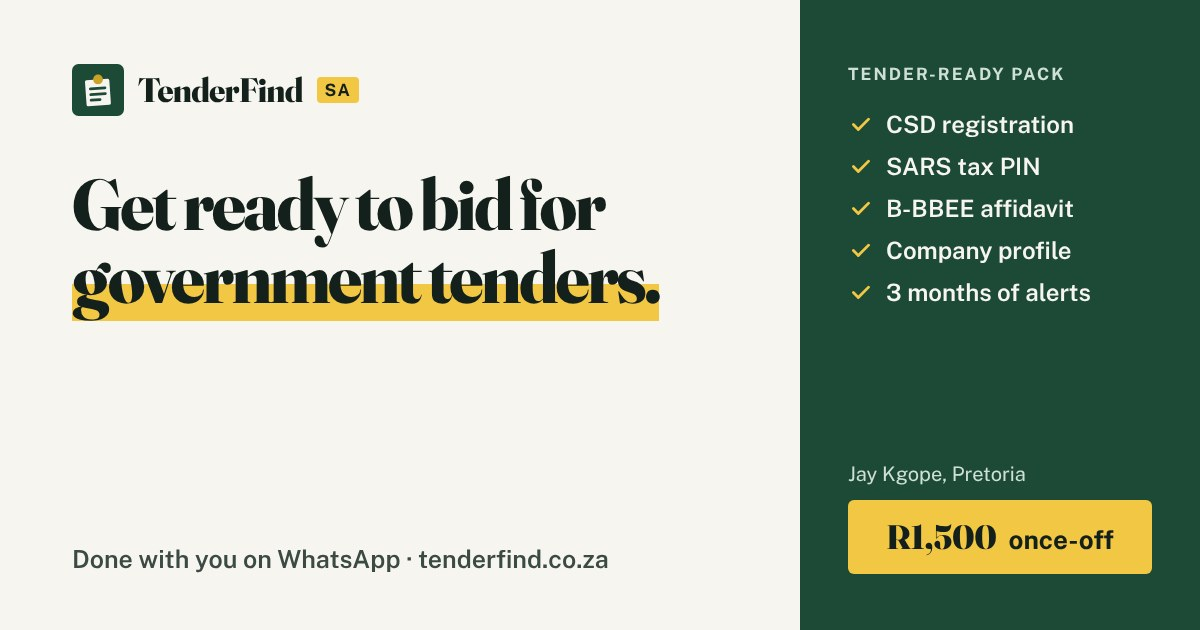
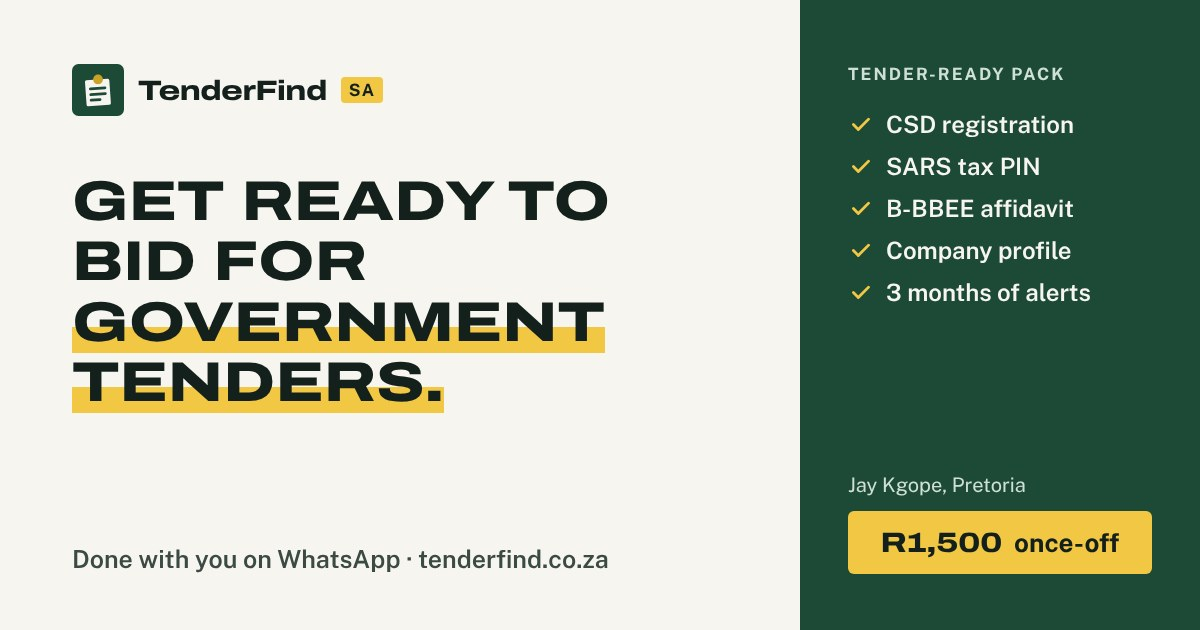
New heading font and a "More ways I can help" services section
- Headings now use Archivo Expanded (wide, like an official stamp), in capitals on the
  home page; replaces Fraunces. Self-hosted, Latin subset, 16 KB. Share image redone to match.
- New services section under the main offer: Bid Help, Tender Desk, CSD/CIDB registration,
  company profile, workshop and email alerts, each with its price (from PRICING) and a
  WhatsApp button. "Services" added to the nav and the phone menu.
- "Tender-Ready Pack" heading no longer breaks at the hyphen.

Claude-Session: https://claude.ai/code/session_013ZxtFEe1HaR7vV1upziBD1

Changed region(s): [[0.0617, 0.2714, 0.555, 0.6635], [0.7092, 0.7238, 0.9867, 0.9048], [0.0925, 0.1206, 0.3392, 0.181]]

diff --git a/site/style.css b/site/style.css
@@ -4,20 +4,20 @@
    - Colour: forest green (brand), warm yellow (only ever a background, with dark text on it), off-white paper,
      near-black ink. Red only for "closing soon". Every text pairing is WCAG AA or better (see the numbers below).
    - Space: one 4px-based scale (--s1 … --s9). Every gap, padding and margin uses it.
-   - Type: Fraunces for display headings, Public Sans for everything else. Five sizes: display, h2, h3, body, small.
+   - Type: Archivo Expanded (wide, like an official stamp) for display headings, Public Sans for everything else. Five sizes: display, h2, h3, body, small.
    - Shape: one corner radius (--r), one hairline (--hair), one strong border (--bold), two shadows (--lift, --lift-sm).
    - Motion: 150ms for states, 500ms for scroll reveals, ease-out only. Nothing moves with "reduce motion". */
 
 /* Size-matched fallbacks: while the web fonts load, Georgia and Arial take up the same space, so nothing jumps
-   when the real fonts arrive (measured: Fraunces 800 at display size is 81.5% of Georgia Bold's width, Public Sans 103.5% of Arial). */
+   when the real fonts arrive (Public Sans measured at 103.5% of Arial; Archivo Expanded roughly matched to Arial Black). */
 /* Brand fonts, served from this site (licences in fonts/). Latin set only, one file per weight:
    fixed-weight files look the same in every browser, including older phones. */
-@font-face { font-family: "Fraunces"; src: url("fonts/fraunces-800.woff2") format("woff2"); font-weight: 800; font-style: normal; font-display: swap; unicode-range: U+0000-00FF, U+0131, U+0152-0153, U+02BB-02BC, U+02C6, U+02DA, U+02DC, U+0304, U+0308, U+0329, U+2000-206F, U+20AC, U+2122, U+2191, U+2193, U+2212, U+2215, U+FEFF, U+FFFD; }
+@font-face { font-family: "Archivo Expanded"; src: url("fonts/archivo-expanded-800.woff") format("woff"); font-weight: 800; font-style: normal; font-display: swap; unicode-range: U+0000-00FF, U+0131, U+0152-0153, U+02BB-02BC, U+02C6, U+02DA, U+02DC, U+2000-206F, U+20AC, U+2122, U+2212; }
 @font-face { font-family: "Public Sans"; src: url("fonts/public-sans-400.woff2") format("woff2"); font-weight: 400; font-style: normal; font-display: swap; unicode-range: U+0000-00FF, U+0131, U+0152-0153, U+02BB-02BC, U+02C6, U+02DA, U+02DC, U+0304, U+0308, U+0329, U+2000-206F, U+20AC, U+2122, U+2191, U+2193, U+2212, U+2215, U+FEFF, U+FFFD; }
 @font-face { font-family: "Public Sans"; src: url("fonts/public-sans-600.woff2") format("woff2"); font-weight: 600; font-style: normal; font-display: swap; unicode-range: U+0000-00FF, U+0131, U+0152-0153, U+02BB-02BC, U+02C6, U+02DA, U+02DC, U+0304, U+0308, U+0329, U+2000-206F, U+20AC, U+2122, U+2191, U+2193, U+2212, U+2215, U+FEFF, U+FFFD; }
 @font-face { font-family: "Public Sans"; src: url("fonts/public-sans-700.woff2") format("woff2"); font-weight: 700; font-style: normal; font-display: swap; unicode-range: U+0000-00FF, U+0131, U+0152-0153, U+02BB-02BC, U+02C6, U+02DA, U+02DC, U+0304, U+0308, U+0329, U+2000-206F, U+20AC, U+2122, U+2191, U+2193, U+2212, U+2215, U+FEFF, U+FFFD; }
 @font-face { font-family: "Public Sans"; src: url("fonts/public-sans-800.woff2") format("woff2"); font-weight: 800; font-style: normal; font-display: swap; unicode-range: U+0000-00FF, U+0131, U+0152-0153, U+02BB-02BC, U+02C6, U+02DA, U+02DC, U+0304, U+0308, U+0329, U+2000-206F, U+20AC, U+2122, U+2191, U+2193, U+2212, U+2215, U+FEFF, U+FFFD; }
-@font-face { font-family: "Fraunces Fallback"; src: local("Georgia Bold"), local("Georgia-Bold"), local("Georgia"); font-weight: 800; size-adjust: 81.5%; ascent-override: 98%; descent-override: 26%; line-gap-override: 0%; }
+@font-face { font-family: "Archivo Expanded Fallback"; src: local("Arial Black"), local("Arial-Black"), local("Arial Bold"); font-weight: 800; size-adjust: 96%; ascent-override: 92%; descent-override: 22%; line-gap-override: 0%; }
 @font-face { font-family: "Public Sans Fallback"; src: local("Arial"), local("ArialMT"), local("Helvetica"); font-weight: 400; size-adjust: 103.5%; ascent-override: 92%; descent-override: 23%; line-gap-override: 0%; }
 @font-face { font-family: "Public Sans Fallback"; src: local("Arial Bold"), local("Arial-BoldMT"), local("Helvetica Bold"); font-weight: 600 800; size-adjust: 101%; ascent-override: 94%; descent-override: 23%; line-gap-override: 0%; }
 
@@ -47,11 +47,11 @@
   --measure: 38rem;          /* comfortable line length */
 
   /* type */
-  --f-display: "Fraunces", "Fraunces Fallback", Georgia, "Times New Roman", serif;
+  --f-display: "Archivo Expanded", "Archivo Expanded Fallback", "Arial Black", Arial, sans-serif;
   --f-text: "Public Sans", "Public Sans Fallback", system-ui, -apple-system, "Segoe UI", Roboto, "Helvetica Neue", Arial, sans-serif;
   --f-mono: ui-monospace, "SFMono-Regular", "Cascadia Mono", Consolas, monospace;
-  --t-display: clamp(2rem, 1.45rem + 2.7vw, 3.5rem);
-  --t-h2: clamp(1.5rem, 1.25rem + 1.2vw, 2.125rem);
+  --t-display: clamp(1.6rem, 1.2rem + 2vw, 2.75rem);
+  --t-h2: clamp(1.25rem, 1.05rem + 1vw, 1.75rem);
   --t-h3: 1.1875rem;
   --t-body: 1.0625rem;
   --t-small: .875rem;
@@ -86,7 +86,7 @@ a { color: var(--green); text-decoration-thickness: 1px; text-underline-offset: 
 a:hover { color: var(--green-deep); text-decoration-thickness: 2px; }
 :focus-visible { outline: 3px solid var(--focus); outline-offset: 3px; border-radius: 2px; }
 ::selection { background: var(--green-soft); color: var(--ink); }
-h1, h2 { font-family: var(--f-display); font-weight: 800; letter-spacing: -0.012em; line-height: 1.1; margin: 0 0 var(--s4); text-wrap: balance; }
+h1, h2 { font-family: var(--f-display); font-weight: 800; letter-spacing: -0.01em; line-height: 1.12; margin: 0 0 var(--s4); text-wrap: balance; }
 h1 { font-size: var(--t-display); }
 h2 { font-size: var(--t-h2); }
 h3 { font-family: var(--f-text); font-size: var(--t-h3); font-weight: 700; line-height: 1.35; letter-spacing: -0.005em; margin: 0 0 var(--s2); }
@@ -135,7 +135,7 @@ small, .small { font-size: var(--t-small); color: var(--muted); }
 .site-head { position: sticky; top: 0; z-index: 50; background: var(--paper); border-bottom: 3px double var(--green); }
 
 .head-row { display: flex; align-items: center; gap: var(--s4); min-height: var(--head-h); }
-.brand { display: inline-flex; align-items: center; gap: var(--s2); color: var(--ink); text-decoration: none; font-family: var(--f-display); font-weight: 800; font-size: 1.375rem; letter-spacing: -0.02em; white-space: nowrap; }
+.brand { display: inline-flex; align-items: center; gap: var(--s2); color: var(--ink); text-decoration: none; font-family: var(--f-display); font-weight: 800; font-size: 1.125rem; letter-spacing: -0.02em; white-space: nowrap; }
 .brand:hover { color: var(--ink); }
 .brand-mark { width: 30px; height: 30px; flex: none; }
 .brand b { font: inherit; }
@@ -155,7 +155,7 @@ small, .small { font-size: var(--t-small); color: var(--muted); }
 .menu-list a { padding: var(--s3); white-space: nowrap; border-radius: var(--r); color: var(--ink); font-weight: 600; text-decoration: none; }
 .menu-list a:hover, .menu-list a:focus-visible { background: var(--green-soft); color: var(--green-deep); }
 @media (max-width: 760px) { .menu { display: block; } .head-row { gap: var(--s2); } }
-@media (max-width: 360px) { .brand { font-size: 1.2rem; } .brand-mark { width: 26px; height: 26px; } }
+@media (max-width: 360px) { .brand { font-size: 1rem; } .brand-mark { width: 26px; height: 26px; } }
 /* Older header markup on the pay/ pages */
 .top { background: var(--paper); border-bottom: var(--hair); padding: var(--s4) 0; }
 .top .brand span { color: var(--green); }
@@ -568,7 +568,7 @@ dl.facts dd { margin: 0; }
 @media (max-width: 400px) {
   :root { --gutter: 16px; }
   .head-row { gap: var(--s2); }
-  .brand { font-size: 1.2rem; gap: 6px; }
+  .brand { font-size: 1rem; gap: 6px; }
   .brand-mark { width: 26px; height: 26px; }
   .head-cta { min-height: 40px; padding: var(--s2) var(--s3); font-size: .875rem; }
   .notice { padding: var(--s5) var(--s4) var(--s4); }
@@ -640,3 +640,17 @@ dl.facts dd { margin: 0; }
 .page > .tf-prices { max-width: none; margin-top: var(--s4); }
 /* Never cover a form while someone is typing in it. */
 body:has(input:focus, textarea:focus, select:focus) .sticky-cta { transform: translateY(160%); }
+
+/* Home page headings in capitals, like a stamp on an official form (tender titles on other pages stay in normal case). */
+.home h1, .home h2 { text-transform: uppercase; letter-spacing: 0; line-height: 1.08; }
+.home .tf-steps h3 { text-transform: none; }
+
+/* More ways I can help: the other services, as cards under the main offer. */
+.tf-services-intro { color: var(--muted); max-width: 40rem; }
+.tf-services { list-style: none; margin: var(--s6) 0 0; padding: 0; display: grid; gap: var(--s4); grid-template-columns: repeat(auto-fill, minmax(min(100%, 300px), 1fr)); }
+.tf-svc { display: flex; flex-direction: column; padding: var(--s5); background: var(--surface); border: var(--hair); border-radius: var(--r); }
+.tf-svc h3 { margin: 0 0 var(--s2); }
+.tf-svc-price { margin: 0 0 var(--s3); font: 800 1.375rem/1.2 var(--f-display); color: var(--green); }
+.tf-svc-price small { font: 600 var(--t-small)/1.4 var(--f-text); color: var(--muted); }
+.tf-svc p:not(.tf-svc-price) { color: var(--muted); font-size: .9375rem; }
+.tf-svc .btn { margin-top: auto; align-self: flex-start; }

diff --git a/site/index.html b/site/index.html
@@ -29,7 +29,7 @@
    {"@type":"WebSite","name":"TenderFind SA","url":"https://tenderfind.co.za/","inLanguage":"en-ZA"},
    {"@type":"Organization","name":"TenderFind SA","url":"https://tenderfind.co.za/","logo":"https://tenderfind.co.za/icon-512.png","email":"info@tenderfind.co.za","areaServed":"ZA"}]}
   </script>
-  <link rel="preload" href="fonts/fraunces-800.woff2" as="font" type="font/woff2" crossorigin>
+  <link rel="preload" href="fonts/archivo-expanded-800.woff" as="font" type="font/woff" crossorigin>
   <link rel="preload" href="fonts/public-sans-400.woff2" as="font" type="font/woff2" crossorigin>
   <link rel="preload" href="fonts/public-sans-700.woff2" as="font" type="font/woff2" crossorigin>
   <link rel="stylesheet" href="style.css">
@@ -42,12 +42,12 @@
         <svg class="brand-mark" viewBox="0 0 32 32" aria-hidden="true"><rect width="32" height="32" rx="4" fill="#1d4a37"/><g transform="rotate(-4 16 18)"><rect x="8.5" y="9.5" width="15" height="16" rx="1" fill="#f7f5ef"/><path d="M11.5 15h9M11.5 18.5h9M11.5 22h5.5" stroke="#1d4a37" stroke-width="1.7" stroke-linecap="round"/></g><circle cx="16" cy="9.5" r="3" fill="#c9a227"/></svg>
         TenderFind <b>SA</b>
       </a>
-      <nav class="nav" aria-label="Main"><a href="#search">Search tenders</a><a href="#signup-section">Tender alerts</a><a href="about.html">About</a></nav>
+      <nav class="nav" aria-label="Main"><a href="#services">Services</a><a href="#search">Search tenders</a><a href="#signup-section">Tender alerts</a><a href="about.html">About</a></nav>
       <a class="btn head-cta" href="#prices">Prices</a>
       <!-- Phones: the nav above is hidden, so the same links live in this menu. -->
       <details class="menu">
         <summary class="btn head-cta menu-btn" aria-label="Menu"><svg class="icon" viewBox="0 0 24 24" aria-hidden="true"><path d="M4 7h16M4 12h16M4 17h16" fill="none" stroke="currentColor" stroke-width="2.2" stroke-linecap="round"/></svg></summary>
-        <nav class="menu-list" aria-label="Menu"><a href="#search">Search tenders</a><a href="#signup-section">Tender alerts</a><a href="#prices">Prices</a><a href="about.html">About</a><a href="https://wa.me/27692898507" target="_blank" rel="noopener">WhatsApp 069 289 8507</a></nav>
+        <nav class="menu-list" aria-label="Menu"><a href="#services">Services</a><a href="#search">Search tenders</a><a href="#signup-section">Tender alerts</a><a href="#prices">Prices</a><a href="about.html">About</a><a href="https://wa.me/27692898507" target="_blank" rel="noopener">WhatsApp 069 289 8507</a></nav>
       </details>
     </div>
   </header>
@@ -72,7 +72,7 @@
         <section class="tf-offer" id="pack" aria-labelledby="pack-h">
           <div class="tf-offer-top"><span>Main offer</span><span>Once-off</span></div>
           <div class="tf-offer-body">
-            <h2 id="pack-h">Tender-Ready Pack</h2>
+            <h2 id="pack-h">Tender&#8209;Ready Pack</h2>
             <p class="tf-price"><span data-price="tenderReady">R1,500</span></p>
             <ul class="tf-ticks">
               <li><svg class="icon" aria-hidden="true"><use href="icons.svg#check"/></svg><span><b>CSD registration</b> (your supplier number)</span></li>
@@ -99,6 +99,52 @@
           <li><div><h3>We do it together</h3><p>I guide you step by step on WhatsApp. You log in with your own details, and your documents stay private.</p></div></li>
           <li><div><h3>You are ready to bid</h3><p>You have your CSD number, tax PIN, B-BBEE affidavit and company profile, and tenders for your trade arrive by email.</p></div></li>
         </ol>
+      </div>
+    </section>
+
+    <!-- 3b. Other services, under the main offer. Prices from PRICING; descriptions match help.html and terms.html. -->
+    <section class="section" id="services" aria-labelledby="services-h">
+      <div class="container">
+        <h2 class="ruled" id="services-h">More ways I can help</h2>
+        <p class="tf-services-intro">Already registered, or need just one thing? Pick what you need.</p>
+        <ul class="tf-services">
+          <li class="tf-svc">
+            <h3>Bid Help</h3>
+            <p class="tf-svc-price">from <span data-price="bidHelpFrom">R1,500</span> <small>per tender</small></p>
+            <p>I read the tender documents with you, list everything you must submit, draft a cover letter and a compliance checklist, and flag deadlines and briefings. You submit the bid yourself.</p>
+            <a class="btn" href="https://wa.me/27692898507?text=Hi%20Jay%2C%20I%27d%20like%20Bid%20Help%20with%20a%20tender" target="_blank" rel="noopener"><svg class="icon icon-sm" aria-hidden="true"><use href="icons.svg#chat"/></svg>WhatsApp about Bid Help</a>
+          </li>
+          <li class="tf-svc">
+            <h3>Tender Desk</h3>
+            <p class="tf-svc-price">from <span data-price="deskFrom">R3,500</span> <small>a month</small></p>
+            <p>Done for you, every month: I find suitable tenders, keep your CSD, tax and B-BBEE documents up to date, and prepare the compliance pack for each bid. You approve and submit.</p>
+            <a class="btn" href="https://wa.me/27692898507?text=Hi%20Jay%2C%20I%27d%20like%20to%20talk%20about%20Tender%20Desk" target="_blank" rel="noopener"><svg class="icon icon-sm" aria-hidden="true"><use href="icons.svg#chat"/></svg>WhatsApp about Tender Desk</a>
+          </li>
+          <li class="tf-svc">
+            <h3>CSD or CIDB registration</h3>
+            <p class="tf-svc-price"><span data-price="csd">R300</span> <small>CSD</small> · <span data-price="cidb">R500</span> <small>CIDB</small></p>
+            <p>Help to register on the Central Supplier Database, or with the CIDB for construction and maintenance tenders. Registration itself is free on the CSD; CIDB fees are paid to the CIDB.</p>
+            <a class="btn" href="https://wa.me/27692898507?text=Hi%20Jay%2C%20I%20need%20help%20with%20CSD%20or%20CIDB%20registration" target="_blank" rel="noopener"><svg class="icon icon-sm" aria-hidden="true"><use href="icons.svg#chat"/></svg>WhatsApp about registration</a>
+          </li>
+          <li class="tf-svc">
+            <h3>Company profile</h3>
+            <p class="tf-svc-price"><span data-price="companyProfile">R800</span> <small>once-off</small></p>
+            <p>A clean 1-page company profile to attach to your bids: who you are, what you do, your registration details and your contact details.</p>
+            <a class="btn" href="https://wa.me/27692898507?text=Hi%20Jay%2C%20I%27d%20like%20a%20company%20profile" target="_blank" rel="noopener"><svg class="icon icon-sm" aria-hidden="true"><use href="icons.svg#chat"/></svg>WhatsApp about a profile</a>
+          </li>
+          <li class="tf-svc">
+            <h3>Workshop: Get Tender-Ready</h3>
+            <p class="tf-svc-price"><span data-price="workshop">R350</span> <small>a person</small></p>
+            <p>Learn how government tenders work, what documents you need and how to read a tender, in plain language.</p>
+            <a class="btn" href="https://wa.me/27692898507?text=Hi%20Jay%2C%20I%27d%20like%20to%20book%20the%20Get%20Tender-Ready%20workshop" target="_blank" rel="noopener"><svg class="icon icon-sm" aria-hidden="true"><use href="icons.svg#chat"/></svg>WhatsApp about the workshop</a>
+          </li>
+          <li class="tf-svc">
+            <h3>Tender alerts by email</h3>
+            <p class="tf-svc-price"><span data-price="alerts">R149</span> <small>a month · <span data-price="trialDays">14</span> days free</small></p>
+            <p>New tenders for your trade and province in your inbox every weekday by 06:45, with the buyer, closing date and any compulsory briefing.</p>
+            <a class="btn" href="#signup-section">Start the free trial</a>
+          </li>
+        </ul>
       </div>
     </section>
 

diff --git a/scripts/lib/pages.js b/scripts/lib/pages.js
@@ -50,7 +50,7 @@ const headerHtml = (root, cta) => `<a class="skip" href="#main">Skip to content<
 <a class="brand" href="${root}" aria-label="TenderFind SA home">${MARK("#1d4a37", "#f7f5ef", "#1d4a37")}TenderFind <b>SA</b></a>
 <nav class="nav" aria-label="Main"><a href="${root}#search">Search tenders</a><a href="${root}tenders/">By trade</a><a href="${root}pricing.html">Price</a></nav>
 <a class="btn primary head-cta" href="${cta}" data-signup-jump>Try it free</a>
-<details class="menu"><summary class="btn head-cta menu-btn" aria-label="Menu"><svg class="icon" viewBox="0 0 24 24" aria-hidden="true"><path d="M4 7h16M4 12h16M4 17h16" fill="none" stroke="currentColor" stroke-width="2.2" stroke-linecap="round"/></svg></summary><nav class="menu-list" aria-label="Menu"><a href="${root}#search">Search tenders</a><a href="${root}tenders/">Tenders by trade</a><a href="${root}#prices">Prices</a><a href="${root}help.html">Bid Help</a><a href="${root}about.html">About</a></nav></details>
+<details class="menu"><summary class="btn head-cta menu-btn" aria-label="Menu"><svg class="icon" viewBox="0 0 24 24" aria-hidden="true"><path d="M4 7h16M4 12h16M4 17h16" fill="none" stroke="currentColor" stroke-width="2.2" stroke-linecap="round"/></svg></summary><nav class="menu-list" aria-label="Menu"><a href="${root}#services">Services</a><a href="${root}#search">Search tenders</a><a href="${root}tenders/">Tenders by trade</a><a href="${root}#prices">Prices</a><a href="${root}help.html">Bid Help</a><a href="${root}about.html">About</a></nav></details>
 </div></header>`;
 const footerHtml = (root) => `<footer class="site-foot"><div class="container foot-grid">
 <div><a class="brand" href="${root}" aria-label="TenderFind SA home">${MARK("#f7f5ef", "#1d4a37", "#f7f5ef")}TenderFind <b>SA</b></a>
@@ -122,7 +122,7 @@ ${canonical ? `<link rel="canonical" href="${esc(canonical)}">
 <meta property="og:image:width" content="1200">
 <meta property="og:image:height" content="630">
 <meta name="twitter:card" content="summary_large_image">
-<link rel="preload" href="${root}fonts/fraunces-800.woff2" as="font" type="font/woff2" crossorigin>
+<link rel="preload" href="${root}fonts/archivo-expanded-800.woff" as="font" type="font/woff" crossorigin>
 <link rel="preload" href="${root}fonts/public-sans-400.woff2" as="font" type="font/woff2" crossorigin>
 <link rel="preload" href="${root}fonts/public-sans-800.woff2" as="font" type="font/woff2" crossorigin>
 ${extraHead}<link rel="stylesheet" href="${root}style.css">
